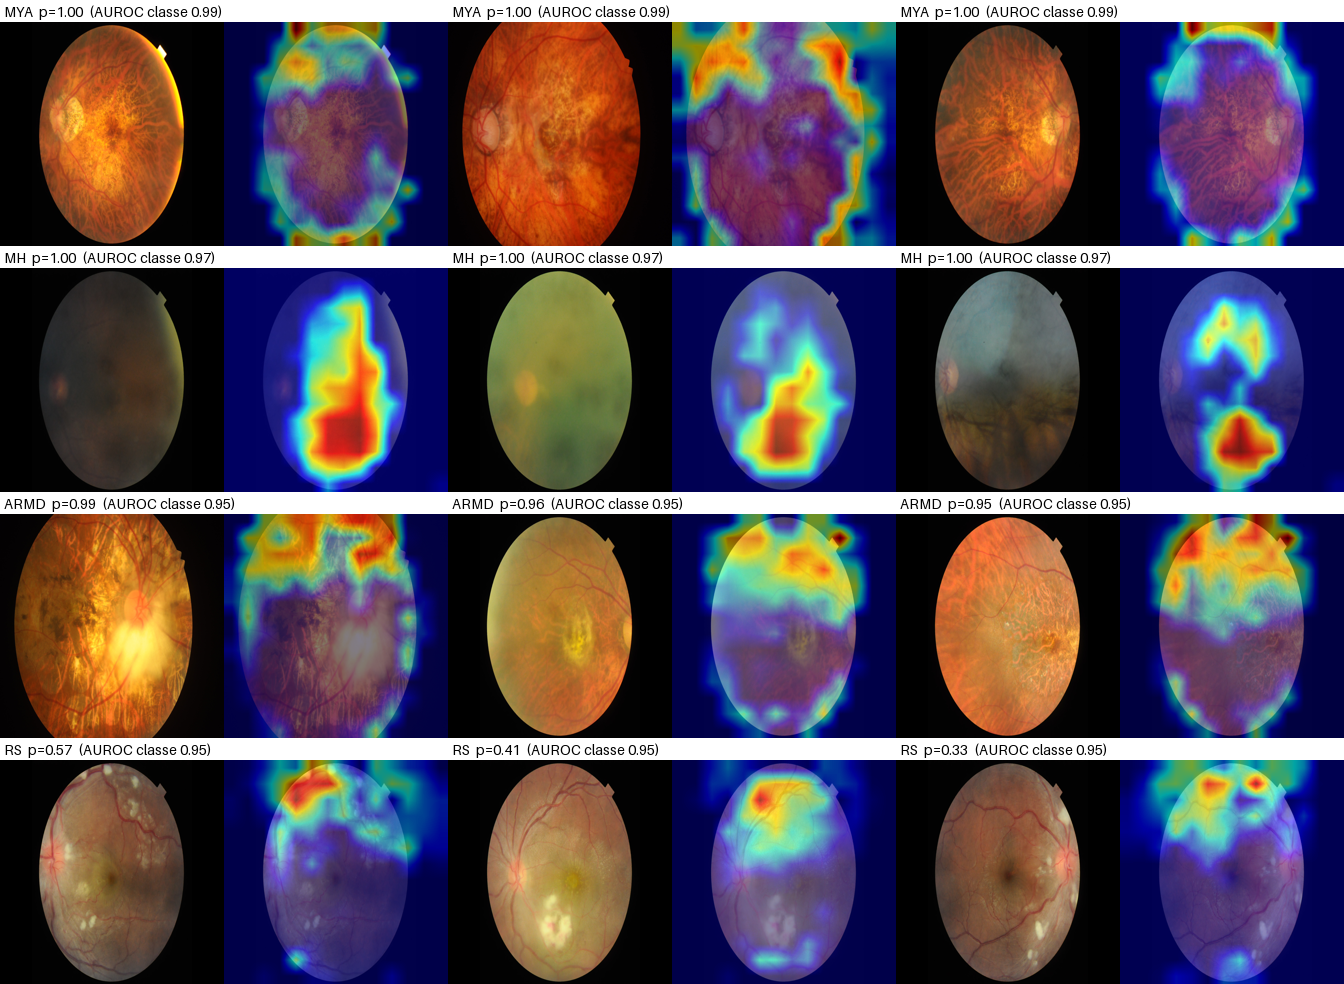
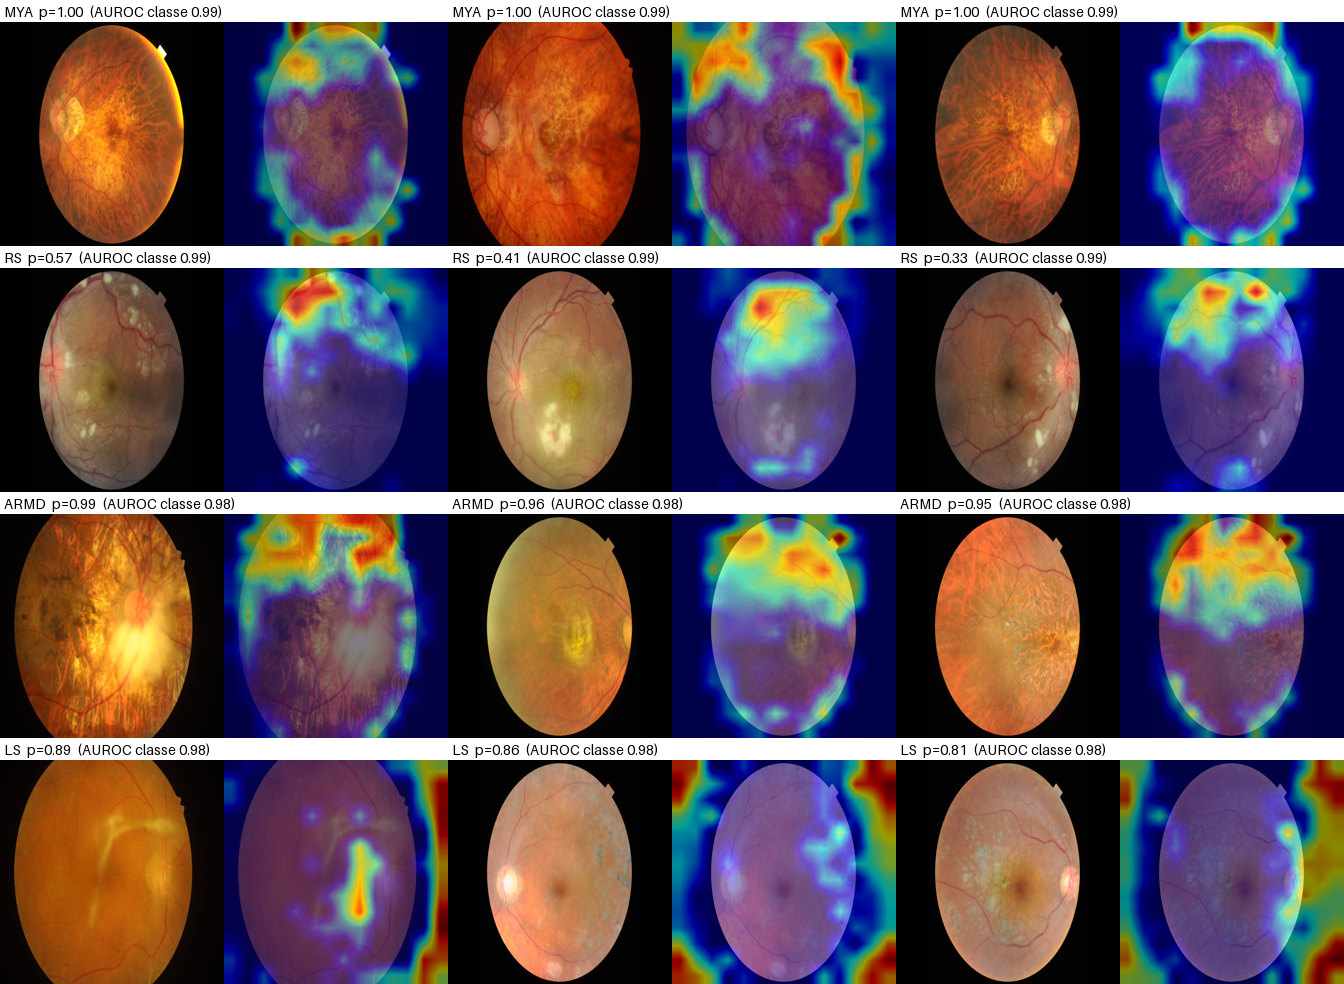
Ajoute la planche d'occlusion RFMiD et rafraîchit le résultat de validation
Validation RFMiD relancée avec le code actuel (graine fixe) : 0,858, même
tête que pour le test (0,832). Planche Grad-CAM régénérée sur la même
sélection de classes que l'occlusion (MYA, RS, ARMD, LS).

diff --git a/README.md b/README.md
@@ -28,7 +28,7 @@ images 224×224, Colab GPU T4.
 
 | Date | Données | Classes | Split | AUROC macro |
 |---|---|---|---|---|
-| 2026-11-02 | RFMiD | 28 | train / val officiels (1 920 / 640) | **0,855** |
+| 2026-11-03 | RFMiD | 28 | train / val officiels (1 920 / 640) | **0,858** |
 | 2026-11-03 | RFMiD | 27 (PTCR absent du test) | train / **test** officiels (1 920 / 640) | **0,832** |
 | 2026-11-02 | ODIR-5K, étiquettes patient | 8 | par patient, 85/15 (5 439 / 953) | **0,806** |
 | 2026-11-03 | ODIR-5K, étiquettes par œil (défaut actuel) | 8 | même split | **0,845** |
@@ -36,8 +36,8 @@ images 224×224, Colab GPU T4.
 - **Très bien reconnues** (AUROC > 0,93 sur RFMiD) : rétinopathie diabétique,
   DMLA, myopie, occlusions veineuses. Les classes très rares en validation
   ont une AUROC instable.
-- **Test RFMiD** : 0,832, à 0,02 de la validation (0,854 sur les mêmes 27
-  classes) : le chiffre de validation n'était pas optimiste. Gap train − test
+- **Test RFMiD** : 0,832, à 0,02 de la validation (0,855 sur les mêmes 27
+  classes, même tête) : le chiffre de validation n'était pas optimiste. Gap train − test
   +0,14 et F1 macro 0,24 au seuil 0,5 : seuils par classe et calibration
   au programme de J60. Détail par classe : [`results/`](results/).
 - **ODIR** : le diagnostic patient recopié sur les deux yeux étiquetait faux

diff --git a/docs/ROADMAP.md b/docs/ROADMAP.md
@@ -3,7 +3,7 @@
 ## J30 — Socle
 - [x] Contrôle qualité (flou/cadrage) opérationnel (seuil de flou encore à calibrer)
 - [x] Backbone RETFound intégré (embeddings figés)
-- [x] Premier classifieur fond d'œil sur RFMiD/ODIR, première AUROC (RFMiD 0,855 / ODIR 0,806 en étiquettes patient, 2026-11-02 ; ODIR en étiquettes par œil à mesurer)
+- [x] Premier classifieur fond d'œil sur RFMiD/ODIR, première AUROC (2026-11-03, tête figée : RFMiD 0,858 en validation et 0,832 sur le test officiel ; ODIR 0,845 en étiquettes par œil, 0,806 en étiquettes patient)
 - [ ] Grad-CAM fonctionnel sur les prédictions (code prêt : `scripts/gradcam_examples.py` + cellule du notebook Colab ; reste à le lancer avec les vrais poids et à relire les cartes)
 
 ## J60 — Localisation

diff --git a/CHANGELOG.md b/CHANGELOG.md
@@ -21,7 +21,7 @@ Premier jalon : socle fond d'œil de bout en bout avec les vrais poids RETFound.
   contrôle des cartes Grad-CAM sur les mêmes images, avec mesure de
   l'effet du fond.
 - Notebook Google Colab (poids via `HF_TOKEN`, données via kagglehub).
-- Résultats : AUROC macro 0,855 sur RFMiD (validation), 0,832 sur son test
+- Résultats : AUROC macro 0,858 sur RFMiD (validation), 0,832 sur son test
   officiel ; 0,845 sur ODIR avec étiquettes par œil (0,806 avec étiquettes
   patient).
 - CI (lint ruff puis tests), `pyproject.toml`, `pre-commit`, carte du modèle,
